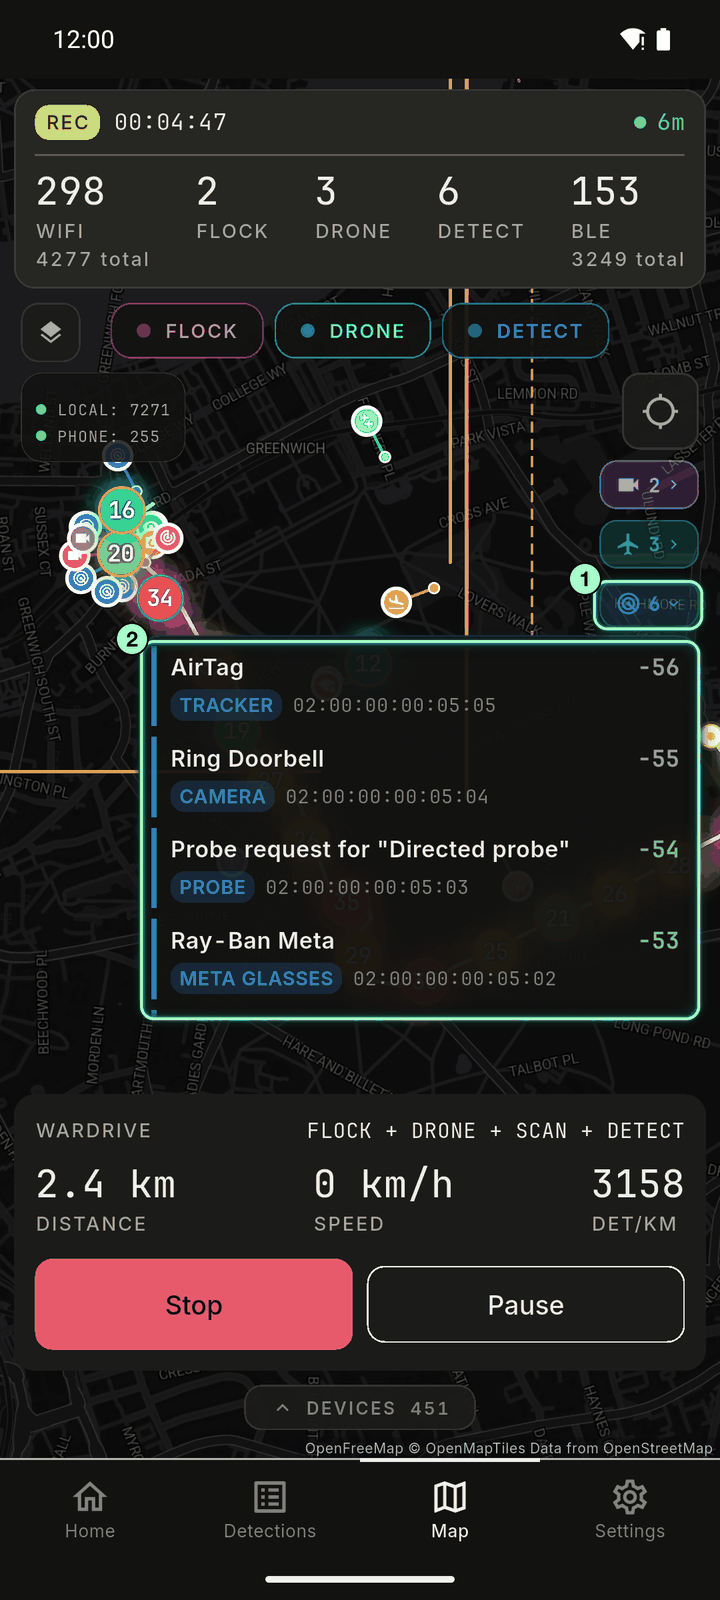
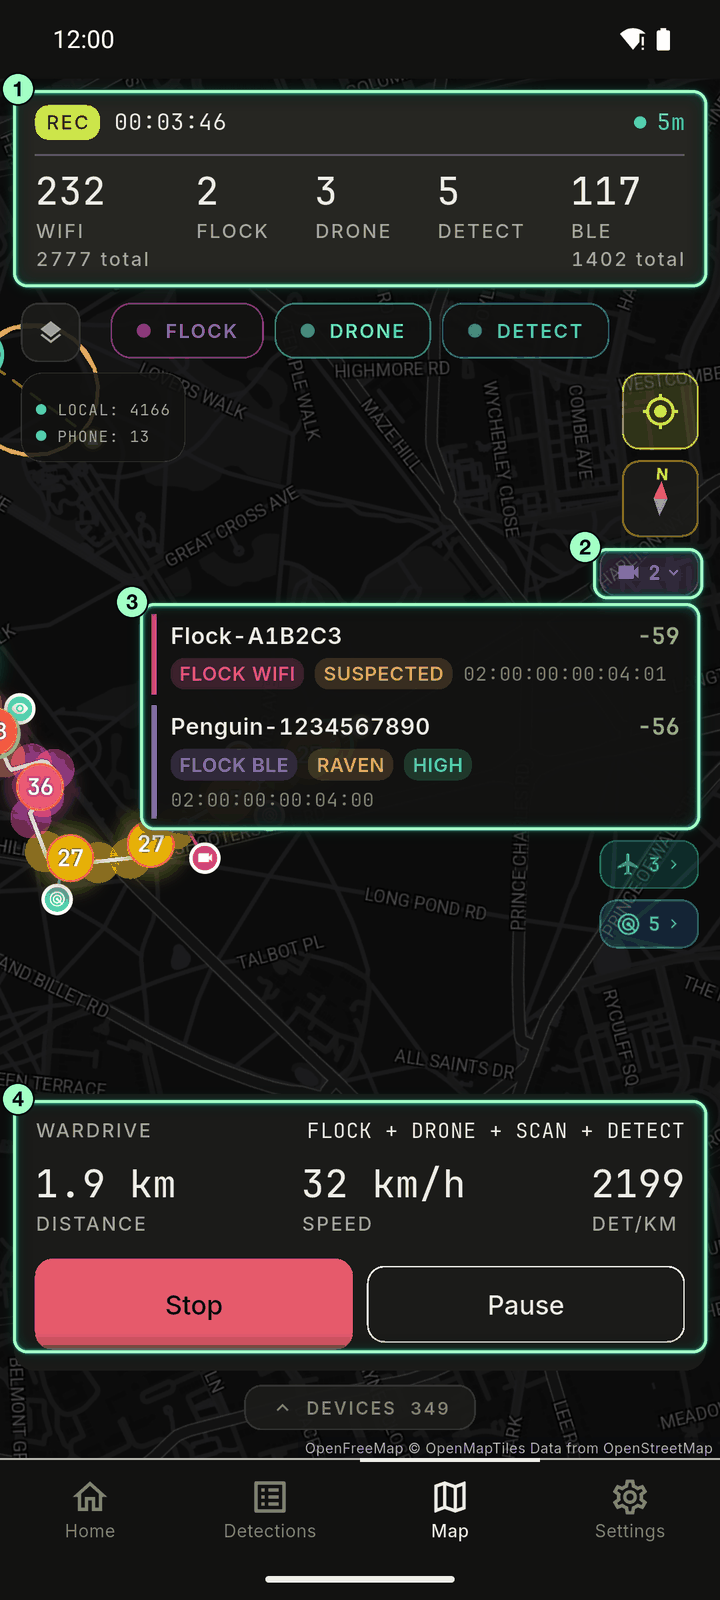
demo: hits on route, drone orbit

diff --git a/companion/lib/smoke_hook.dart b/companion/lib/smoke_hook.dart
@@ -1,5 +1,6 @@
 import 'dart:async';
 import 'dart:convert';
+import 'dart:math' as math;
 
 import 'package:flutter/foundation.dart';
 import 'package:flutter_riverpod/flutter_riverpod.dart';
@@ -139,23 +140,24 @@ void _inject(ProviderContainer container) {
   var tick = 0;
   final counts = <String, int>{};
   final heardAt = <String, (double, double)>{};
+  (double, double) fixNow() {
+    final fix = container.read(gpsProvider).lastPosition;
+    return (fix?.latitude ?? lat0, fix?.longitude ?? lon0);
+  }
+
+  (double, double) placeOf(String mac) => heardAt.putIfAbsent(mac, fixNow);
   void send(String label, List<int> frame) {
     final mac = frame.sublist(1, 7).map((b) => b.toRadixString(16).padLeft(2, '0')).join(':');
-    final at = heardAt.putIfAbsent(mac, () {
-      final fix = container.read(gpsProvider).lastPosition;
-      final h = frame[5] * 31 + frame[6] * 17;
-      return (
-        (fix?.latitude ?? lat0) + ((h % 41) - 20) * 0.00002,
-        (fix?.longitude ?? lon0) + (((h ~/ 41) % 41) - 20) * 0.00003,
-      );
-    });
+    final at = placeOf(mac);
     ble.updateGps(latitude: at.$1, longitude: at.$2, accuracy: 5);
     ble.injectDetectionFrame(frame);
     counts[label] = (counts[label] ?? 0) + 1;
   }
 
   debugPrint('SMOKE: injecting for ${_seconds}s, devices placed where first heard');
+  var waitedForFix = 0;
   Timer.periodic(const Duration(seconds: 1), (t) {
+    if (tick == 0 && container.read(gpsProvider).lastPosition == null && waitedForFix++ < 20) return;
     final r = tick % 5;
     final block = tick ~/ 6;
     const ssids = [
@@ -190,11 +192,12 @@ void _inject(ProviderContainer container) {
       send('ble_adv', smokeFrame(Engine.wardrive, mac, -65 - r, 37, 1,
           _wardriveExt('', 0, bleNames[(block * 3 + i) % bleNames.length])));
     }
-    if (tick >= 12) {
+    int at(double share) => (_seconds * share).round();
+    if (tick >= at(0.25)) {
       send('flockBle', smokeFrame(Engine.flockBle, '02:00:00:00:04:00', -55 - r, 37, 1,
           _flockExt(raven: true, fw: '1.3.2', signals: 0x47, name: 'Penguin-1234567890')));
     }
-    if (tick >= 20) {
+    if (tick >= at(0.55)) {
       send('flockWifi', smokeFrame(Engine.flockWifi, '02:00:00:00:04:01', -58 - r, 6, 4,
           _flockExt(raven: false, fw: '', signals: 0x05, name: 'Flock-A1B2C3')));
     }
@@ -209,62 +212,76 @@ void _inject(ProviderContainer container) {
     var k = 0;
     for (final e in detectors.entries) {
       final (method, ch, desc) = e.value;
-      if (tick >= 4 + k * 5) {
+      if (tick >= at(0.08 + k * 0.13)) {
         send('detector:${e.key}', smokeFrame(Engine.detector, '02:00:00:00:05:0$k', -50 - k - r, ch, method,
             _detectorExt(desc, 1 + k % 3)));
       }
       k++;
     }
-    final step = tick * 0.0001;
+    final orbit = tick * 2 * math.pi / 90;
     send('drone_full', smokeFrame(Engine.skySpy, '02:00:00:00:06:00', -62 - r, 6, 0, smokeOdidExt(
       uavId: 'DEMO1A2B3C4D5E',
       opId: 'GBR-OP-DEMO0001',
-      lat: lat0 + 0.002 + step,
-      lon: lon0 + 0.002,
-      pilotLat: lat0 + 0.0005 + step / 4,
-      pilotLon: lon0 + 0.0045,
-      alt: 1700 + tick,
+      lat: lat0 + 0.0012 + 0.0010 * math.sin(orbit),
+      lon: lon0 - 0.0004 + 0.0016 * math.cos(orbit),
+      pilotLat: lat0 + 0.0004,
+      pilotLon: lon0 + 0.0010,
+      alt: 1700 + (tick % 20),
       agl: 60,
       speed: 5,
-      heading: 0,
+      heading: ((orbit * 180 / math.pi + 90) % 360).round(),
       selfId: 'Survey flight',
     )));
-    send('drone_partial', smokeFrame(Engine.skySpy, '02:00:00:00:06:01', -75 - r, 6, 0, smokeOdidExt(
-      uavId: 'DEMO9Z8Y7X6W5V',
-      opId: '',
-      lat: lat0 - 0.002,
-      lon: lon0 - 0.002 - step,
-      pilotLat: null,
-      pilotLon: null,
-      alt: 1650,
-      agl: 30,
-      speed: 3,
-      heading: 270,
-      selfId: '',
-    )));
-    if (tick >= 30) {
+    if (tick >= at(0.35)) {
+      final hover = placeOf('02:00:00:00:06:01');
+      send('drone_partial', smokeFrame(Engine.skySpy, '02:00:00:00:06:01', -75 - r, 6, 0, smokeOdidExt(
+        uavId: 'DEMO9Z8Y7X6W5V',
+        opId: '',
+        lat: hover.$1,
+        lon: hover.$2,
+        pilotLat: null,
+        pilotLon: null,
+        alt: 1650,
+        agl: 30,
+        speed: 0,
+        heading: 270,
+        selfId: '',
+      )));
+    }
+    if (tick >= at(0.85)) {
       send('uniPwn', smokeFrame(Engine.uniPwn, '02:00:00:00:07:00', -68 - r, 37, 0,
           [..._str('Go2', 8), 0]));
       send('foxhunter', smokeFrame(Engine.foxhunter, '02:00:00:00:08:00', -45 - r, 37, 0, const []));
     }
-    ble.addPhoneOdid('02:00:00:00:06:02', -70 - r,
-        smokePhoneOdidAdv(lat0 - 0.0025 + step, lon0 + 0.0025, tick));
-    counts['phone_odid'] = (counts['phone_odid'] ?? 0) + 1;
+    if (tick >= at(0.65)) {
+      final hover = placeOf('02:00:00:00:06:02');
+      ble.addPhoneOdid('02:00:00:00:06:02', -70 - r, smokePhoneOdidAdv(hover.$1, hover.$2, tick));
+      counts['phone_odid'] = (counts['phone_odid'] ?? 0) + 1;
+    }
 
-    if (tick == 3) {
+    final (hLat, hLon) = fixNow();
+    if (tick == at(0.1)) {
       log(kind: 'drone_loiter', title: 'Drone near you', reason: 'Hovering 180 m away for 6 min',
-          subject: '02:00:00:00:06:00', lat: lat0 + 0.0015, lon: lon0 + 0.0015);
+          subject: '02:00:00:00:06:00', lat: hLat, lon: hLon);
+    }
+    if (tick == at(0.3)) {
       log(kind: 'beacon_flood', title: 'Wi-Fi beacon flood', reason: '24 networks from one radio',
-          subject: '02:00:00:00:09:00', lat: lat0 - 0.0035, lon: lon0 + 0.0035);
+          subject: '02:00:00:00:09:00', lat: hLat, lon: hLon);
       log(kind: 'car_follow', title: 'Car following you', reason: 'Same tire sensors over 3 km and 14 min',
           subject: '02:00:00:00:03:00');
+    }
+    if (tick == at(0.5)) {
       log(kind: 'trusted_network', title: 'Possible evil twin of "Harbor Cafe"', reason: 'Weaker security',
-          subject: '02:00:00:00:01:01', lat: lat0 + 0.0035, lon: lon0 - 0.0035);
+          subject: '02:00:00:00:01:01', lat: hLat, lon: hLon);
+    }
+    if (tick == at(0.7)) {
       log(kind: 'cell_watch', title: 'Cell network warning', reason: 'Dropped to 2G', subject: 'CELL',
-          lat: lat0 - 0.0035, lon: lon0 - 0.0035);
+          lat: hLat, lon: hLon);
       log(kind: 'gps_watch', title: 'GPS warning', reason: 'Position jumped 4 km', subject: 'GPS');
+    }
+    if (tick == at(0.9)) {
       log(kind: 'aircraft_circle', title: 'Aircraft circling you', reason: 'DEM123 (ABC123) circled twice',
-          subject: 'ABC123', lat: lat0 + 0.004, lon: lon0);
+          subject: 'ABC123', lat: hLat, lon: hLon);
       counts['alerts'] = 7;
     }
     final sdr = container.read(sdrControllerProvider);
